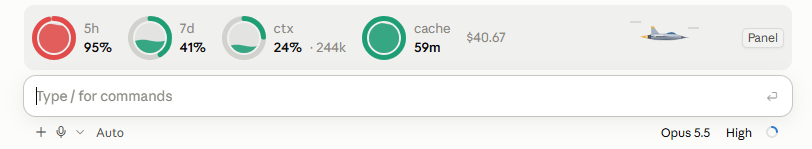
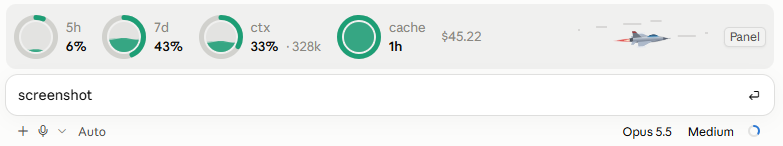
docs: new band and pane screenshots, and the jet

diff --git a/README.md b/README.md
@@ -8,6 +8,8 @@ Zero tokens: everything is read from what Claude Code already knows. No network,
 
 ![The pane](docs/pane.png)
 
+![The effort jet](docs/jet.png)
+
 ## What you get
 
 **The band** (above the prompt, Claude Code desktop)
